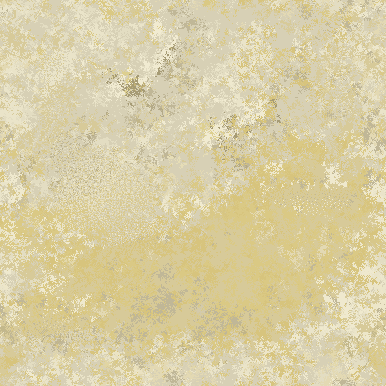
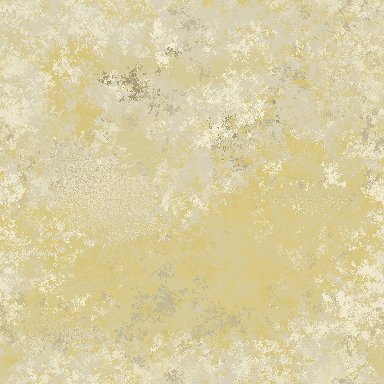
More fine-tuning, updated aquarium sands

Changed region(s): [[0.0, 0.0, 1.0, 1.0], [0.1875, 0.6562, 0.2188, 0.6875]]

diff --git a/src/game/stateless_systems/movement_path_system.cpp b/src/game/stateless_systems/movement_path_system.cpp
@@ -55,8 +55,8 @@ void movement_path_system::advance_paths(const logic_step step) const {
 
 				const auto fov_half_degrees = real32((360 - 90) / 2);
 				const auto max_avoidance_speed = 20 + speed_boost / 2;
-				//const auto max_startle_speed = 250 + 4*speed_boost;
-				//const auto max_lighter_startle_speed = 150 + 4*speed_boost;
+				const auto max_startle_speed = 250 + 4*speed_boost;
+				const auto max_lighter_startle_speed = 200 + 4*speed_boost;
 
 				const auto cohesion_mult = 0.05f;
 				const auto alignment_mult = 0.08f;
@@ -104,11 +104,11 @@ void movement_path_system::advance_paths(const logic_step step) const {
 
 				real32 total_startle_applied = 0.f;
 
-				auto do_startle = [&](const auto type, const auto damping, const auto steer_mult) {
+				auto do_startle = [&](const auto type, const auto damping, const auto steer_mult, const auto max_speed) {
 					auto& startle = movement_path.startle[type];
 					//const auto desired_vel = vec2(startle).trim_length(max_speed);
 					const auto desired_vel = startle;
-					const auto total_steering = (desired_vel - velocity) * steer_mult * (0.02f + (0.16f * boost_mult));
+					const auto total_steering = vec2((desired_vel - velocity) * steer_mult * (0.02f + (0.16f * boost_mult))).trim_length(max_speed);
 
 					total_startle_applied += total_steering.length() / velocity.length();
 
@@ -117,8 +117,8 @@ void movement_path_system::advance_paths(const logic_step step) const {
 					startle.damp(delta.in_seconds(), vec2::square(damping));
 				};
 
-				do_startle(startle_type::LIGHTER, 0.2f, 0.1f);
-				do_startle(startle_type::IMMEDIATE, 5.f, 1.f);
+				do_startle(startle_type::LIGHTER, 0.2f, 0.1f, max_lighter_startle_speed);
+				do_startle(startle_type::IMMEDIATE, 5.f, 1.f, max_startle_speed);
 
 				{
 					auto greatest_avoidance = vec2::zero;
@@ -212,7 +212,7 @@ void movement_path_system::advance_paths(const logic_step step) const {
 					velocity,
 					tip_pos,
 					bound,
-					30.f,
+					40.f,
 					0.2f
 				);
 
@@ -224,8 +224,8 @@ void movement_path_system::advance_paths(const logic_step step) const {
 						to avoid a glitch where fish is conflicted about where to go.
 					*/
 
-					if (startle > bound_avoidance && (startle + bound_avoidance) < startle) {
-						startle += bound_avoidance;
+					if (startle + bound_avoidance * 6 < startle) {
+						startle += bound_avoidance * 6;
 					}
 				}
 

diff --git a/src/application/setups/editor/commands/duplicate_entities_command.cpp b/src/application/setups/editor/commands/duplicate_entities_command.cpp
@@ -92,7 +92,8 @@ void duplicate_entities_command::redo(const editor_command_input in) {
 			}
 		});
 
-		created_grouping.redo(in);
+		// FIXME: Parametrize this?
+		//created_grouping.redo(in);
 	};
 
 	if (does_mirroring) {
@@ -225,7 +226,8 @@ void duplicate_entities_command::redo(const editor_command_input in) {
 }
 
 void duplicate_entities_command::undo(const editor_command_input in) {
-	created_grouping.undo(in);
+	// FIXME: Parametrize this?
+	//created_grouping.undo(in);
 
 	in.purge_selections();
 	in.interrupt_tweakers();

diff --git a/docs/pages/todo/brainstorm_now.md b/docs/pages/todo/brainstorm_now.md
@@ -6,6 +6,15 @@ permalink: brainstorm_now
 summary: That which we are brainstorming at the moment.
 ---
 
+- Marker entities
+	- Special-purpose components:
+		- shape_aabb
+			- can be used by wandering pixels!
+				- and thus the editor will allow us to change reach easily
+		- shape_polygon can be used both for marking and for physical bodies
+	- separation between visible shapes and physical shapes is described elsewhere
+		- but the same logic would be used nevertheless
+
 - Transform design
 	- It is the case that many entities might share identical origin, in which case it would be unwieldy to update origins for all entities to a new one.
 		- E.g. fish in aquarium.
@@ -32,7 +41,6 @@ summary: That which we are brainstorming at the moment.
 		- Shuffled
 			- We'll probably only calculate the few that are visible, statelessly
 				- We can as well make the shuffles, why not
-	- Square-bounded movement
 
 - Editor maximum ease of access
 	- Shift+Arrows shall duplicate the selection and select the new entities
